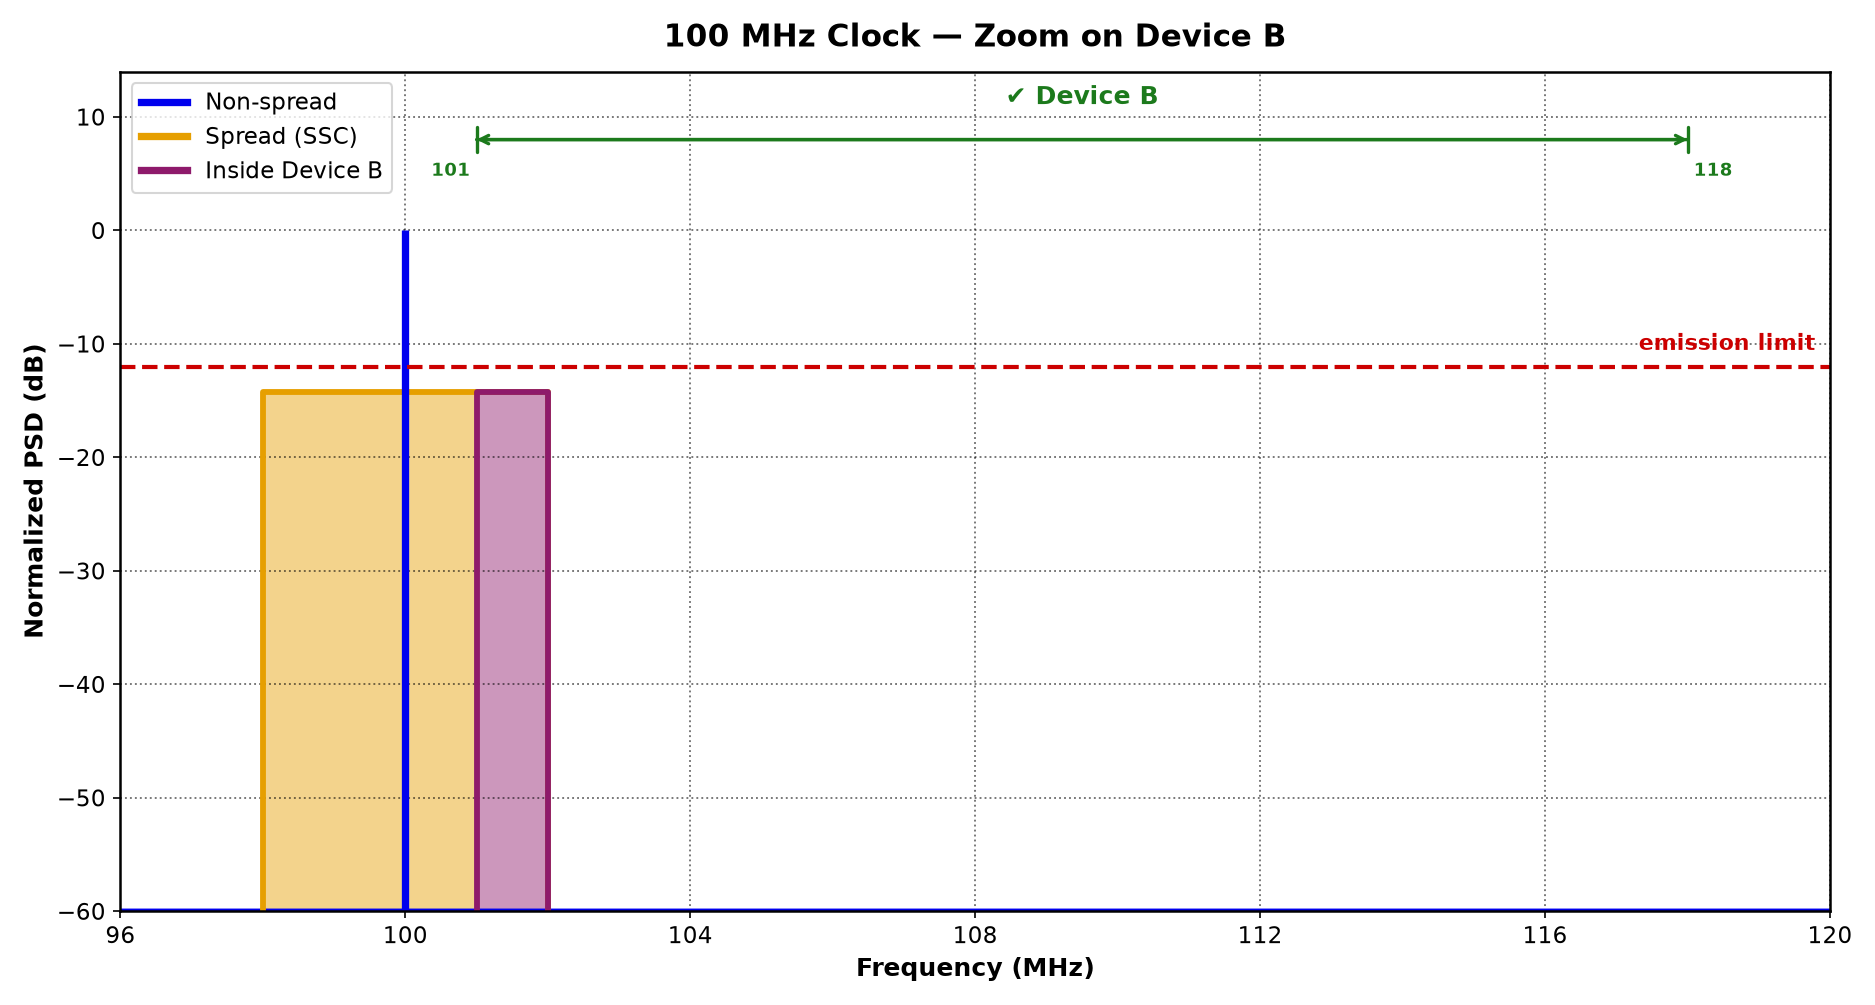
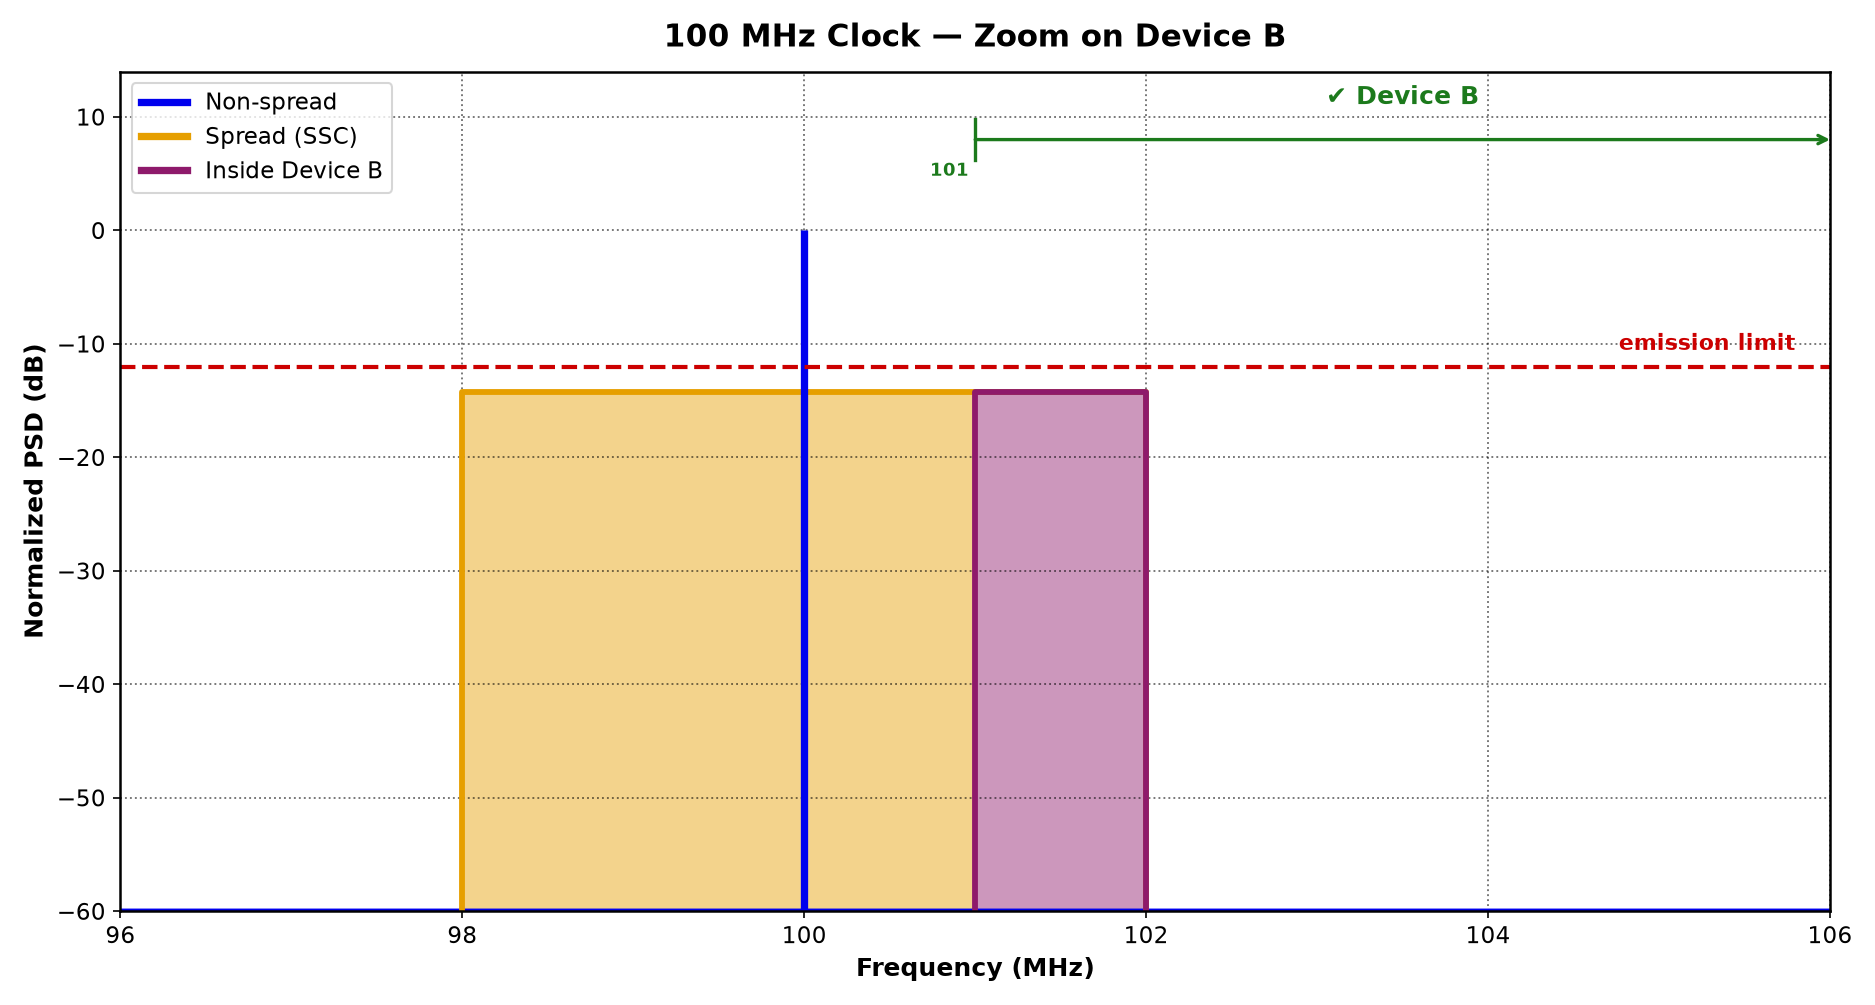
A New Issue: zoom the chart on the overlap
The window closes from 96-120 to 96-106 MHz, so the overlap reads from
the room; Device B's far edge runs off to the right.

diff --git a/figures/plot_05c_victim_zoom.py b/figures/plot_05c_victim_zoom.py
@@ -13,8 +13,12 @@ from plot_05_victim_band import (
 # sitting on the non-spread line, so it adds nothing here and its 85-115 MHz
 # span would force a window wide enough to shrink the overlap to nothing.
 #
-# Dropping it lets the window close to 24 MHz and makes the overlap ~4% of the
-# chart, with no change to the band definitions used on the other slides.
+# Dropping it let the window close to 24 MHz and made the overlap ~4% of the
+# chart. On 2026-09-14 the window closed further, to 10 MHz (96-106), so that
+# the overlapped sliver is 10% of the chart and reads at a glance from the
+# room: Device B's far edge (118 MHz) is now outside the view and its
+# dimension line runs off to the right. No change to the band definitions
+# used on the other slides.
 F0 = 100
 DEVICE_B_LO, DEVICE_B_HI = DEVICE_B
 
@@ -27,11 +31,11 @@ for spine in ax.spines.values():
 ax.grid(True, linestyle=":", color="black", alpha=0.55, linewidth=0.9)
 ax.tick_params(axis="both", labelsize=11)
 
-xmin, xmax = 96, 120
+xmin, xmax = 96, 106
 ymax = 14
 ax.set_xlim(xmin, xmax)
 ax.set_ylim(FLOOR, ymax)
-ax.set_xticks([96, 100, 104, 108, 112, 116, 120])
+ax.set_xticks([96, 98, 100, 102, 104, 106])
 
 freqs = np.linspace(xmin, xmax, 2000)
 ax.plot(freqs, np.full_like(freqs, FLOOR), color=BLUE, linewidth=2.5)
@@ -55,9 +59,11 @@ ax.plot([F0 - hw, F0 - hw, F0 + hw, F0 + hw], [FLOOR, level, level, FLOOR],
 # is where slide 9 started. The height difference *is* the peak reduction.
 ax.vlines(F0, FLOOR, 0, color=BLUE, linewidth=3.5)
 
-# Device B: at this scale the whole dimension line fits -- both caps, the arrow
-# and both frequency labels, exactly as on the previous slides.
-dimension_line(ax, DEVICE_B_LO, DEVICE_B_HI, 8, "Device B", GREEN)
+# Device B: the window is too narrow for its far edge (118 MHz), so the
+# dimension line gets one tick cap and a single arrowhead trailing off the
+# view, the standard "runs off" variant, instead of a false second edge.
+dimension_line(ax, DEVICE_B_LO, DEVICE_B_HI, 8, "Device B", GREEN,
+               runs_off_to=xmax)
 
 # The slice of spread energy that now falls inside Device B's band. Same
 # fill/outline discipline as the band: one hex, translucent fill, bold outline.
